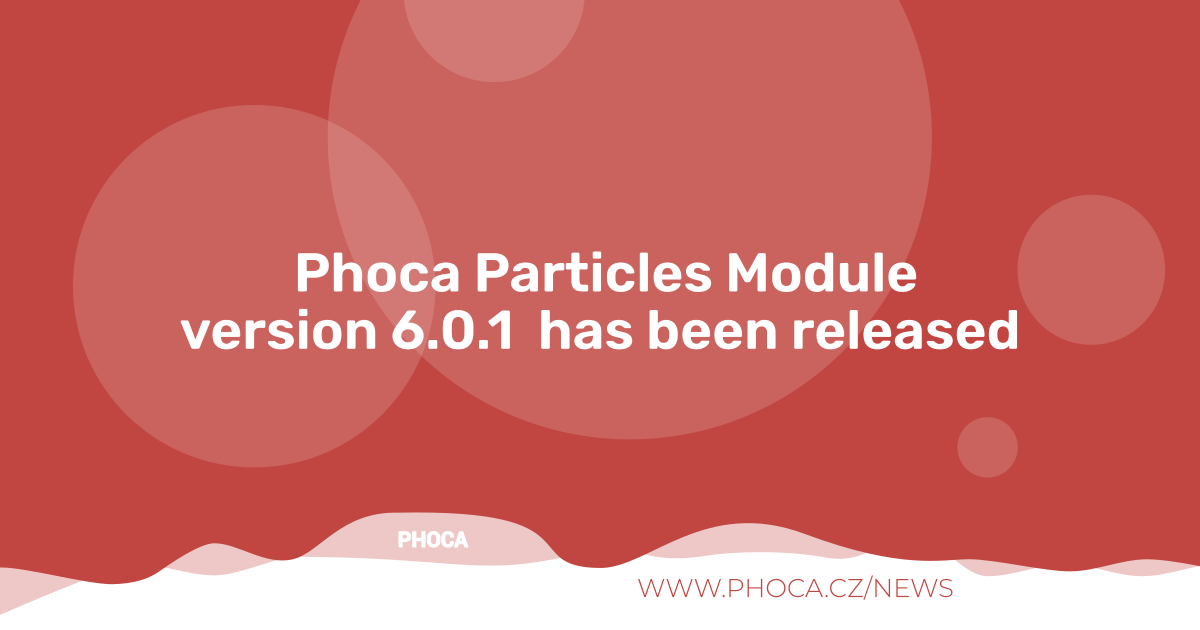
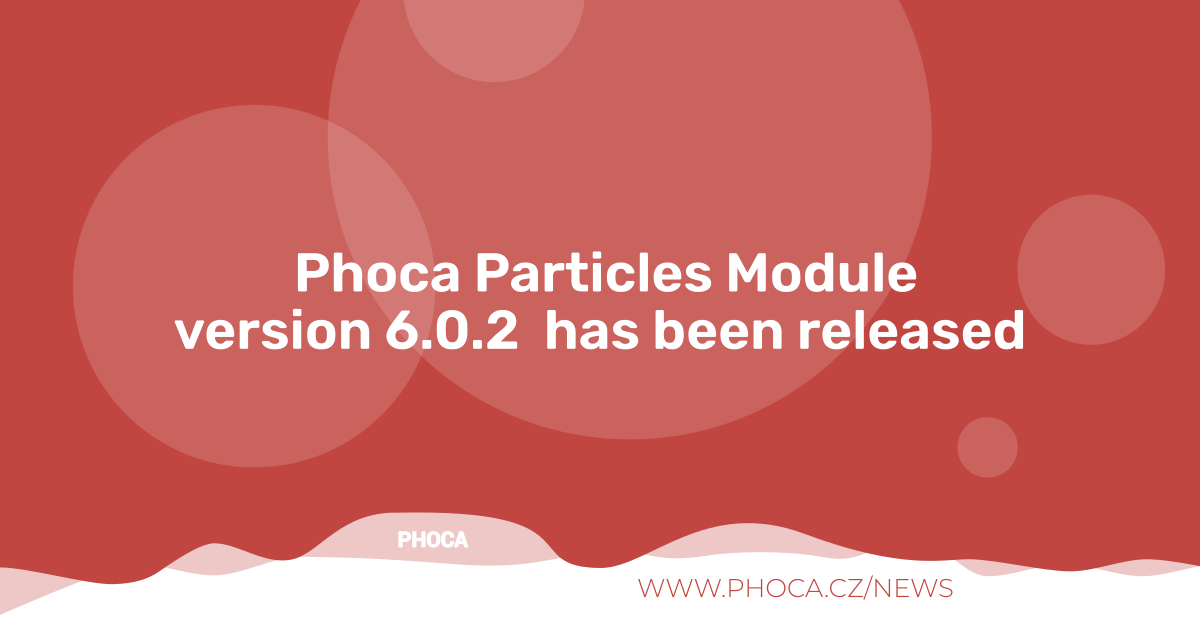
6.0.2

Changed region(s): [[0.1233, 0.4825, 0.8633, 0.573]]

diff --git a/media/css/style.css b/media/css/style.css
@@ -459,14 +459,14 @@
         width: 100%
     }
 }
-
+/*
 .phModParticlesItemContent.pmpw40,
 .phModParticlesItemContent.pmpw40,
 .phModParticlesItemContent.pmpw40 {
     display: flex;
     align-items: center;
 }
-
+*/
 .phModParticlesContentFeatureBox .phModParticlesItem .phModParticlesItemFeatureBox {
     padding: 0;
     padding-left: 3em;

diff --git a/layouts/field/phocaradioimage.php b/layouts/field/phocaradioimage.php
@@ -109,7 +109,7 @@ Factory::getDocument()->addStyleDeclaration('
     }
     
     .ph-image-label-box-item label img {
-       
+        max-width: 100%;
     }
 ');
 
